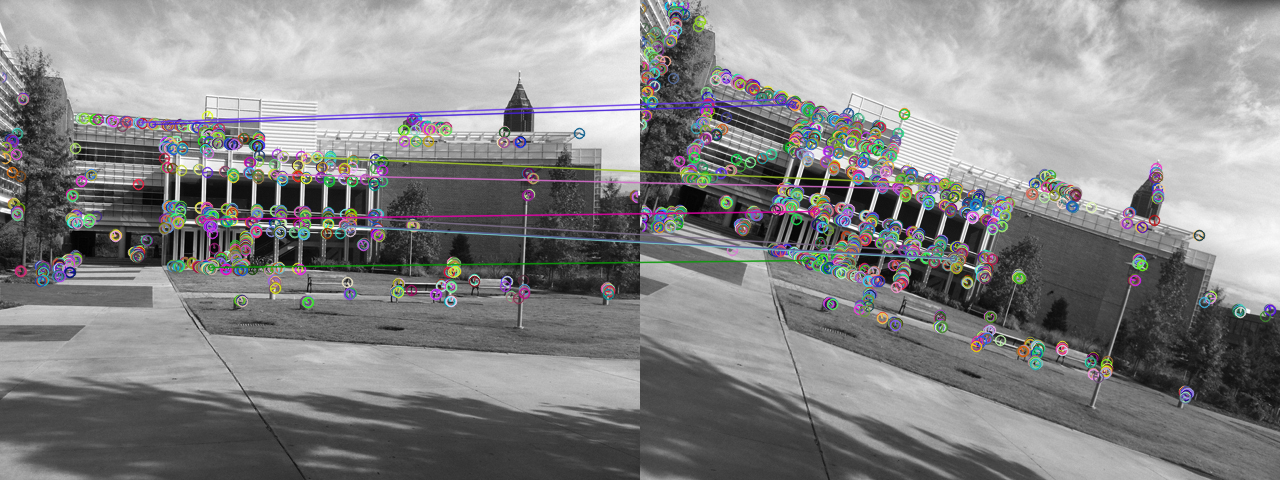
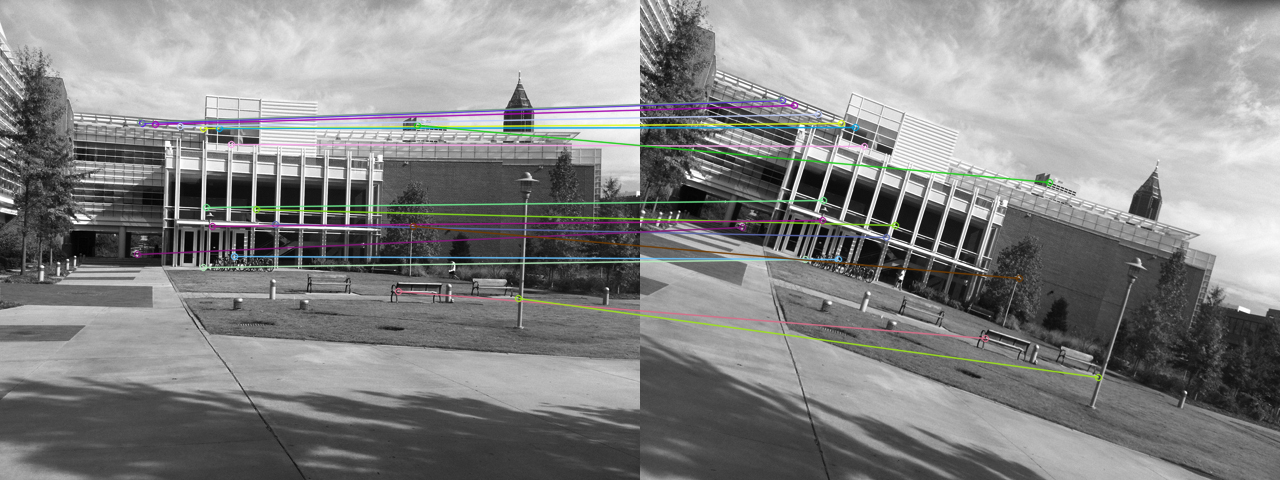
Finish ps4

diff --git a/ps4_python/ransac_sim_affine.py b/ps4_python/ransac_sim_affine.py
@@ -6,7 +6,6 @@ from get_matches import *
 def ransac_sim_affine(simA, simB):
     img1, img2, kpts1, kpts2, matches = get_matches(simA, simB)
     tolerance = 1 # used when comparing similarity matrices of match pairs
-    #  best_match = 0
     consensus_set = []
     best_sim = []
     # find consensus of translation between a random keypoint and the rest for
@@ -20,48 +19,50 @@ def ransac_sim_affine(simA, simB):
         kp22 = kpts2[matches[idxs[1]].trainIdx]
         kp31 = kpts1[matches[idxs[2]].queryIdx]
         kp32 = kpts2[matches[idxs[2]].trainIdx]
-        A = np.array([[kp11.pt[0], kp11.pt[1], 1, 0, 0, 0],
-                      [0, 0, 0, kp11.pt[0], kp11.pt[1], 1],
-                      [kp21.pt[0], kp21.pt[1], 1, 0, 0, 0],
-                      [0, 0, 0, kp21.pt[0], kp21.pt[1], 1],
-                      [kp31.pt[0], kp31.pt[1], 1, 0, 0, 0],
-                      [0, 0, 0, kp31.pt[0], kp31.pt[1], 1]])
-        b = np.array([kp12.pt[0], kp12.pt[1], kp22.pt[0], kp22.pt[1],
-                      kp32.pt[0], kp32.pt[1]])
-        Sim,_,_,_ = np.linalg.lstsq(A, b)
-        Sim = Sim.reshape((2, 3))
+        #  A = np.array([[kp11.pt[0], kp11.pt[1], 1, 0, 0, 0],
+                      #  [0, 0, 0, kp11.pt[0], kp11.pt[1], 1],
+                      #  [kp21.pt[0], kp21.pt[1], 1, 0, 0, 0],
+                      #  [0, 0, 0, kp21.pt[0], kp21.pt[1], 1],
+                      #  [kp31.pt[0], kp31.pt[1], 1, 0, 0, 0],
+                      #  [0, 0, 0, kp31.pt[0], kp31.pt[1], 1]])
+        #  b = np.array([kp12.pt[0], kp12.pt[1], kp22.pt[0], kp22.pt[1],
+                      #  kp32.pt[0], kp32.pt[1]])
+        #  Sim,_,_,_ = np.linalg.lstsq(A, b)
+        #  Sim = Sim.reshape((2, 3))
+        pts1 = np.float32([[kp11.pt[0], kp11.pt[1]],
+                           [kp21.pt[0], kp21.pt[1]],
+                           [kp31.pt[0], kp31.pt[1]]])
+        pts2 = np.float32([[kp12.pt[0], kp12.pt[1]],
+                           [kp22.pt[0], kp22.pt[1]],
+                           [kp32.pt[0], kp32.pt[1]]])
+        Sim = cv2.getAffineTransform(pts1, pts2)
         temp_consensus_set = []
-        for j in range(len(matches) / 3):
-            match = matches[j]
-            kp11 = kpts1[matches[3*j].queryIdx]
-            kp12 = kpts2[matches[3*j].trainIdx]
-            kp21 = kpts1[matches[3*j+1].queryIdx]
-            kp22 = kpts2[matches[3*j+1].trainIdx]
-            kp31 = kpts1[matches[3*j+2].queryIdx]
-            kp32 = kpts2[matches[3*j+2].trainIdx]
-            A = np.array([[kp11.pt[0], kp11.pt[1], 1, 0, 0, 0],
-                          [0, 0, 0, kp11.pt[0], kp11.pt[1], 1],
-                          [kp21.pt[0], kp21.pt[1], 1, 0, 0, 0],
-                          [0, 0, 0, kp21.pt[0], kp21.pt[1], 1],
-                          [kp31.pt[0], kp31.pt[1], 1, 0, 0, 0],
-                          [0, 0, 0, kp31.pt[0], kp31.pt[1], 1]])
-            b = np.array([kp12.pt[0], kp12.pt[1], kp22.pt[0], kp22.pt[1],
-                          kp32.pt[0], kp32.pt[1]])
-            Sim2,_,_,_ = np.linalg.lstsq(A, b)
-            Sim2 = Sim2.reshape((2, 3))
+        for j in range(len(matches)-2):
+            kp11 = kpts1[matches[j].queryIdx]
+            kp12 = kpts2[matches[j].trainIdx]
+            kp21 = kpts1[matches[j+1].queryIdx]
+            kp22 = kpts2[matches[j+1].trainIdx]
+            kp31 = kpts1[matches[j+2].queryIdx]
+            kp32 = kpts2[matches[j+2].trainIdx]
+            pts1 = np.float32([[kp11.pt[0], kp11.pt[1]],
+                               [kp21.pt[0], kp21.pt[1]],
+                               [kp31.pt[0], kp31.pt[1]]])
+            pts2 = np.float32([[kp12.pt[0], kp12.pt[1]],
+                               [kp22.pt[0], kp22.pt[1]],
+                               [kp32.pt[0], kp32.pt[1]]])
+            Sim2 = cv2.getAffineTransform(pts1, pts2)
             if (np.array(np.abs(Sim-Sim2)) < tolerance).all():
-                temp_consensus_set.append(3*j)
-                temp_consensus_set.append(3*j+1)
-                temp_consensus_set.append(3*j+2)
+                temp_consensus_set.append(j)
+                temp_consensus_set.append(j+1)
+                temp_consensus_set.append(j+2)
         if len(temp_consensus_set) > len(consensus_set):
             consensus_set = temp_consensus_set
-            #  best_match = idxs
             best_sim = Sim
     consensus_matches = np.array(matches)[consensus_set]
     matched_image = np.array([])
     # draw matches with biggest consensus
-    matched_image = cv2.drawMatches(img1, kpts1, img2, kpts2, consensus_matches[:100],
+    matched_image = cv2.drawMatches(img1, kpts1, img2, kpts2, consensus_matches,
                                     flags=2, outImg=matched_image)
     print('Best match:\nSim=\n%s\n with consensus=%d or %d%%'%(
-        best_sim, len(consensus_set)/3, 100*len(consensus_set)/3/len(matches)))
-    return matched_image
+        best_sim, len(consensus_set)/3, 100*len(consensus_set)/len(matches)))
+    return matched_image, best_sim

diff --git a/ps4_python/ps4.py b/ps4_python/ps4.py
@@ -87,19 +87,48 @@ def ps4_3_a():
 def ps4_3_b():
     simA = cv2.imread('input/simA.jpg', cv2.IMREAD_COLOR)
     simB = cv2.imread('input/simB.jpg', cv2.IMREAD_COLOR)
-    matching = ransac_sim(simA, simB)
+    matching,_ = ransac_sim(simA, simB)
     cv2.imwrite('output/ps4-3-b-1.png', matching)
 
 def ps4_3_c():
     simA = cv2.imread('input/simA.jpg', cv2.IMREAD_COLOR)
     simB = cv2.imread('input/simB.jpg', cv2.IMREAD_COLOR)
-    matching = ransac_sim_affine(simA, simB)
+    matching,_ = ransac_sim_affine(simA, simB)
     cv2.imwrite('output/ps4-3-c-1.png', matching)
 
 def ps4_3_d():
-    pass
+    simA = cv2.imread('input/simA.jpg', cv2.IMREAD_COLOR)
+    simB = cv2.imread('input/simB.jpg', cv2.IMREAD_COLOR)
+    _,transform = ransac_sim(simA, simB)
+    if len(transform) == 0:
+        print('Failed to calculate affine transform!')
+        return
+    warpedB = cv2.warpAffine(simB, transform, simB.shape[1::-1],
+                             flags=cv2.WARP_INVERSE_MAP)
+    blend = warpedB * 0.5
+    blend[:simA.shape[0], :simA.shape[1]] += simA * 0.5
+    blend = cv2.normalize(blend, blend, alpha=0, beta=255,
+                           norm_type=cv2.NORM_MINMAX, dtype=cv2.CV_8U)
+    cv2.imshow('', blend)
+    cv2.waitKey(0); cv2.destroyAllWindows()
+    cv2.imwrite('output/ps4-3-d-1.png', blend)
+
 def ps4_3_e():
-    pass
+    simA = cv2.imread('input/simA.jpg', cv2.IMREAD_COLOR)
+    simB = cv2.imread('input/simB.jpg', cv2.IMREAD_COLOR)
+    _,transform = ransac_sim_affine(simA, simB)
+    if len(transform) == 0:
+        print('Failed to calculate affine transform!')
+        return
+    warpedB = cv2.warpAffine(simB, transform, simB.shape[1::-1],
+                            flags=cv2.WARP_INVERSE_MAP)
+    blend = warpedB * 0.5
+    blend[:simA.shape[0], :simA.shape[1]] += simA * 0.5
+    blend = cv2.normalize(blend, blend, alpha=0, beta=255,
+                           norm_type=cv2.NORM_MINMAX, dtype=cv2.CV_8U)
+    cv2.imshow('', blend)
+    cv2.waitKey(0); cv2.destroyAllWindows()
+    cv2.imwrite('output/ps4-3-e-1.png', blend)
 
 ps4_list = OrderedDict([('1a', ps4_1_a), ('1b', ps4_1_b), ('1c', ps4_1_c),
                         ('2a', ps4_2_a), ('2b', ps4_2_b), ('3a', ps4_3_a),

diff --git a/ps4_python/ransac_sim.py b/ps4_python/ransac_sim.py
@@ -4,7 +4,9 @@ import random
 from get_matches import *
 
 def ransac_sim(simA, simB):
-    img1, img2, kpts1, kpts2, matches = get_matches(simA, simB)
+    _, _, kpts1, kpts2, matches = get_matches(simA, simB)
+    img1 = simA
+    img2 = simB
     tolerance = 1 # used when comparing similarity matrices of match pairs
     #  best_match = 0
     consensus_set = []
@@ -27,12 +29,12 @@ def ransac_sim(simA, simB):
         Sim = np.array([[Sim[0], -Sim[1], Sim[2]],
                         [Sim[1], Sim[0], Sim[3]]])
         temp_consensus_set = []
-        for j in range(len(matches) / 2):
+        for j in range(len(matches) - 1):
             match = matches[j]
-            kp11 = kpts1[matches[2*j].queryIdx]
-            kp12 = kpts2[matches[2*j].trainIdx]
-            kp21 = kpts1[matches[2*j+1].queryIdx]
-            kp22 = kpts2[matches[2*j+1].trainIdx]
+            kp11 = kpts1[matches[j].queryIdx]
+            kp12 = kpts2[matches[j].trainIdx]
+            kp21 = kpts1[matches[j+1].queryIdx]
+            kp22 = kpts2[matches[j+1].trainIdx]
             A = np.array([[kp11.pt[0], -kp11.pt[1], 1, 0],
                           [kp11.pt[1], kp11.pt[0], 0, 1],
                           [kp21.pt[0], -kp21.pt[1], 1, 0],
@@ -42,8 +44,8 @@ def ransac_sim(simA, simB):
             Sim2 = np.array([[Sim2[0], -Sim2[1], Sim2[2]],
                              [Sim2[1], Sim2[0], Sim2[3]]])
             if (np.array(np.abs(Sim-Sim2)) < tolerance).all():
-                temp_consensus_set.append(2*j)
-                temp_consensus_set.append(2*j+1)
+                temp_consensus_set.append(j)
+                temp_consensus_set.append(j+1)
         if len(temp_consensus_set) > len(consensus_set):
             consensus_set = temp_consensus_set
             #  best_match = idxs
@@ -55,4 +57,4 @@ def ransac_sim(simA, simB):
                                     flags=2, outImg=matched_image)
     print('Best match:\nSim=\n%s\n with consensus=%d or %d%%'%(
         best_sim, len(consensus_set)/2, 100*len(consensus_set)/2/len(matches)))
-    return matched_image
+    return matched_image, best_sim

diff --git a/ps4_python/get_keypoints.py b/ps4_python/get_keypoints.py
@@ -2,7 +2,7 @@ import cv2
 import numpy as np
 from harris_corners import *
 
-def get_keypoints(img):
+def get_keypoints(img, draw_keypoints=True):
     if len(img) > 1:
         gray = cv2.cvtColor(img, cv2.COLOR_BGR2GRAY).astype(np.float32)
 
@@ -26,6 +26,7 @@ def get_keypoints(img):
         kp = cv2.KeyPoint(c, r, _size=10, _angle=np.rad2deg(O[r,c]), _octave=0)
         keypoints.append(kp)
     # draw the keypoints on the image
-    cv2.drawKeypoints(img, keypoints, img,
-                      flags=cv2.DRAW_MATCHES_FLAGS_DRAW_RICH_KEYPOINTS)
+    if draw_keypoints:
+        cv2.drawKeypoints(img, keypoints, img,
+                          flags=cv2.DRAW_MATCHES_FLAGS_DRAW_RICH_KEYPOINTS)
     return img, keypoints

diff --git a/ps4_python/get_matches.py b/ps4_python/get_matches.py
@@ -3,8 +3,8 @@ import numpy as np
 from get_keypoints import *
 
 def get_matches(img1, img2):
-    img1_feat, kpts1 = get_keypoints(img1)
-    img2_feat, kpts2 = get_keypoints(img2)
+    img1_feat, kpts1 = get_keypoints(img1, draw_keypoints=False)
+    img2_feat, kpts2 = get_keypoints(img2, draw_keypoints=False)
 
     # create sift instance
     sift = cv2.xfeatures2d.SIFT_create()
